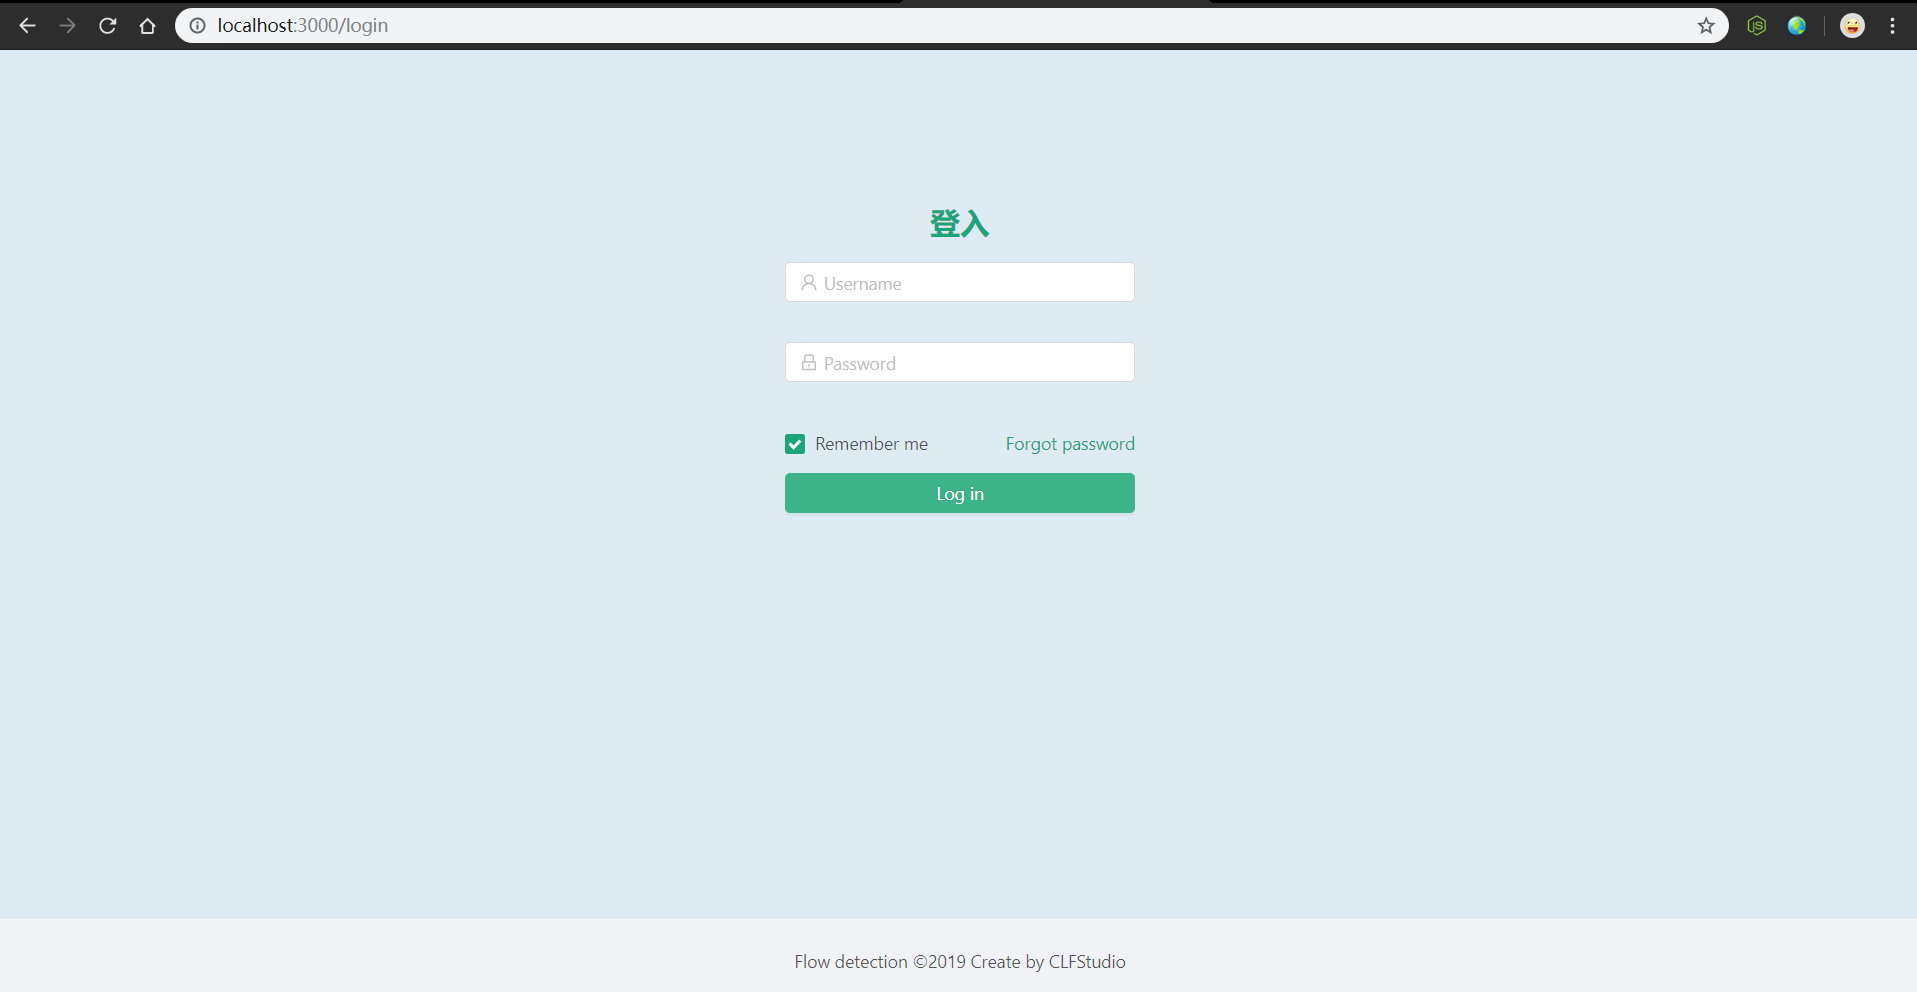
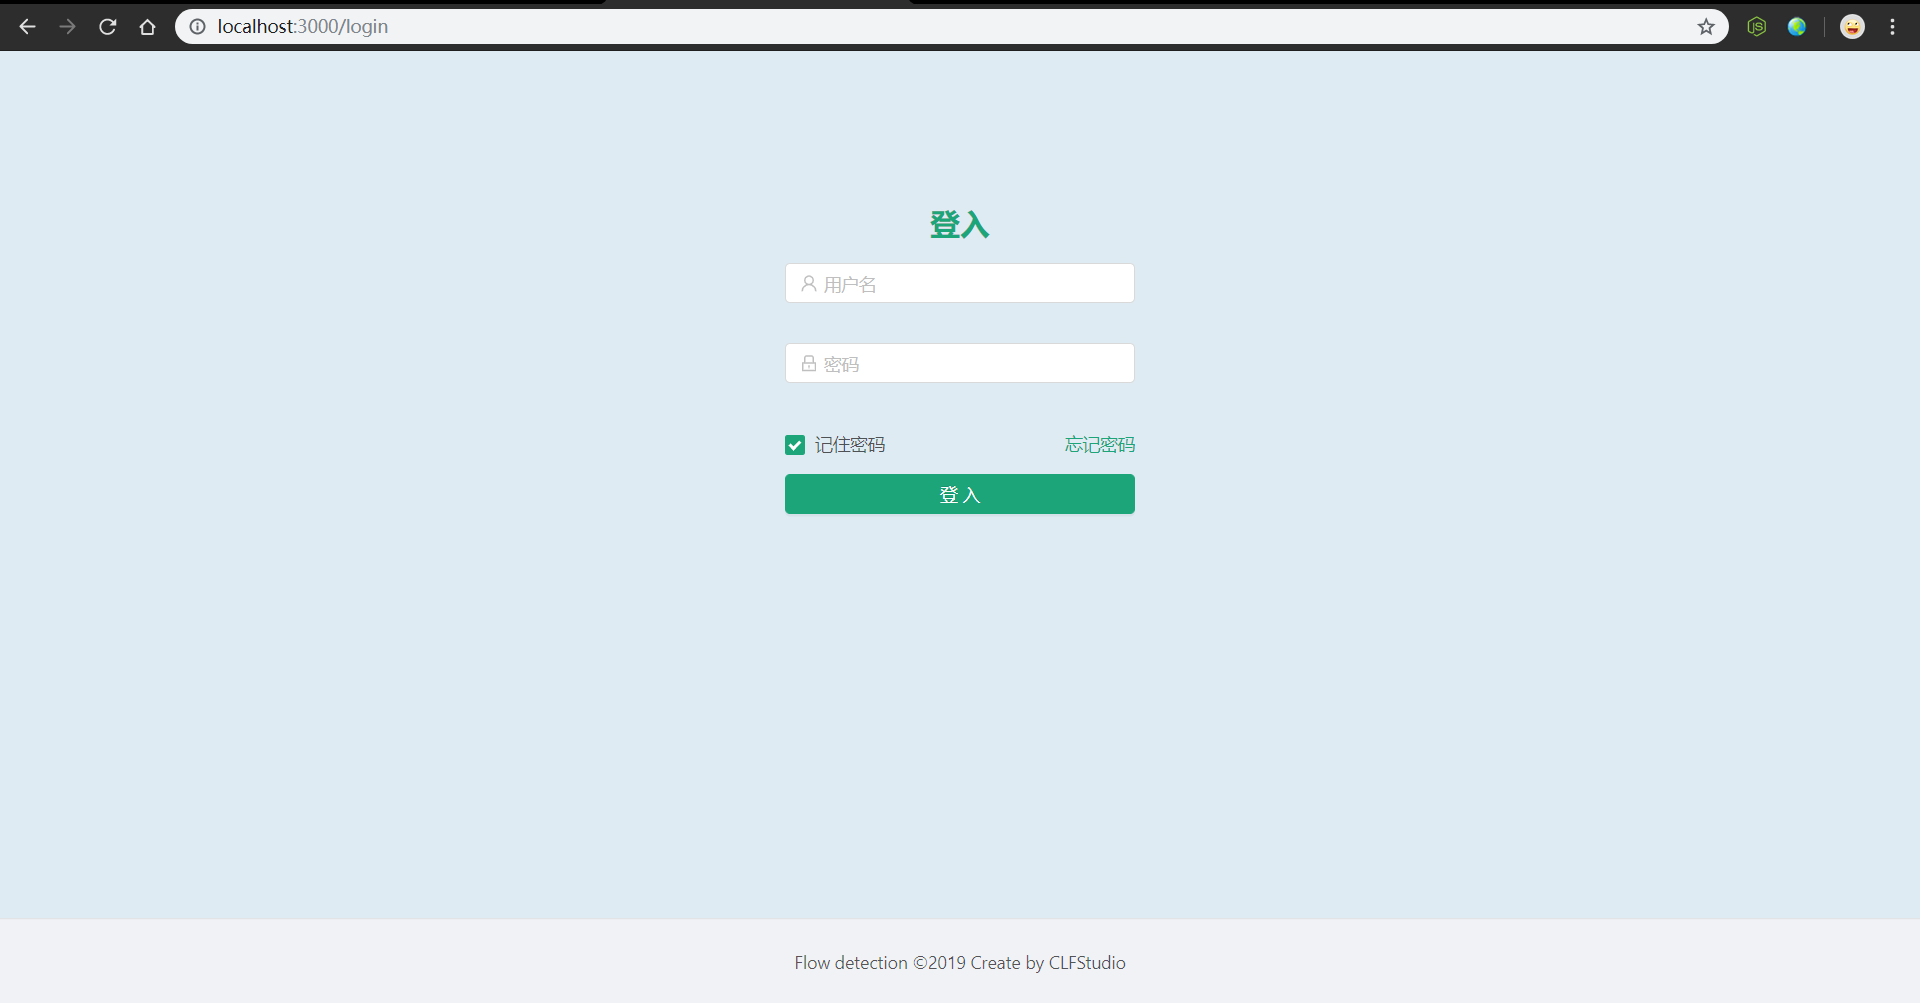
style(login): adjust the login page text to chinese

diff --git a/src/components/loginForm/index.tsx b/src/components/loginForm/index.tsx
@@ -25,7 +25,7 @@ const LoginForm = React.memo(({ form }: LoginFormProps) => {
             <Form.Item>
                 {getFieldDecorator('userName', {
                     rules: [{ required: true, message: 'Please input your username!' }],
-                })(<Input prefix={<Icon type="user" style={{ color: 'rgba(0,0,0,.25)' }} />} placeholder="Username" />)}
+                })(<Input prefix={<Icon type="user" style={{ color: 'rgba(0,0,0,.25)' }} />} placeholder="用户名" />)}
             </Form.Item>
             <Form.Item>
                 {getFieldDecorator('password', {
@@ -34,7 +34,7 @@ const LoginForm = React.memo(({ form }: LoginFormProps) => {
                     <Input
                         prefix={<Icon type="lock" style={{ color: 'rgba(0,0,0,.25)' }} />}
                         type="password"
-                        placeholder="Password"
+                        placeholder="密码"
                     />,
                 )}
             </Form.Item>
@@ -42,12 +42,12 @@ const LoginForm = React.memo(({ form }: LoginFormProps) => {
                 {getFieldDecorator('remember', {
                     valuePropName: 'checked',
                     initialValue: true,
-                })(<Checkbox>Remember me</Checkbox>)}
+                })(<Checkbox>记住密码</Checkbox>)}
                 <a className="login-form-forgot" href="">
-                    Forgot password
+                    忘记密码
                 </a>
                 <Button type="primary" htmlType="submit" className="login-form-button">
-                    Log in
+                    登入
                 </Button>
             </Form.Item>
         </Form>

diff --git a/src/components/rankingList/index.tsx b/src/components/rankingList/index.tsx
@@ -2,7 +2,7 @@ import * as React from 'react';
 import { Card, List, message } from 'antd';
 import _ from 'lodash';
 import { RankListItem } from '../rankingListItem';
-import { RankingListSetting } from '../RankingListSetting';
+import { RankingListSetting } from '../rankingListSetting';
 import { Street } from '../../models/Street';
 import { getStreets } from '../../api/streetApi';
 import './style.scss';

diff --git a/README.md b/README.md
@@ -1,4 +1,4 @@
-## 人流检测项目客户端
+## 人流检测项目**演示**客户端
 
 ### 技术栈
 
